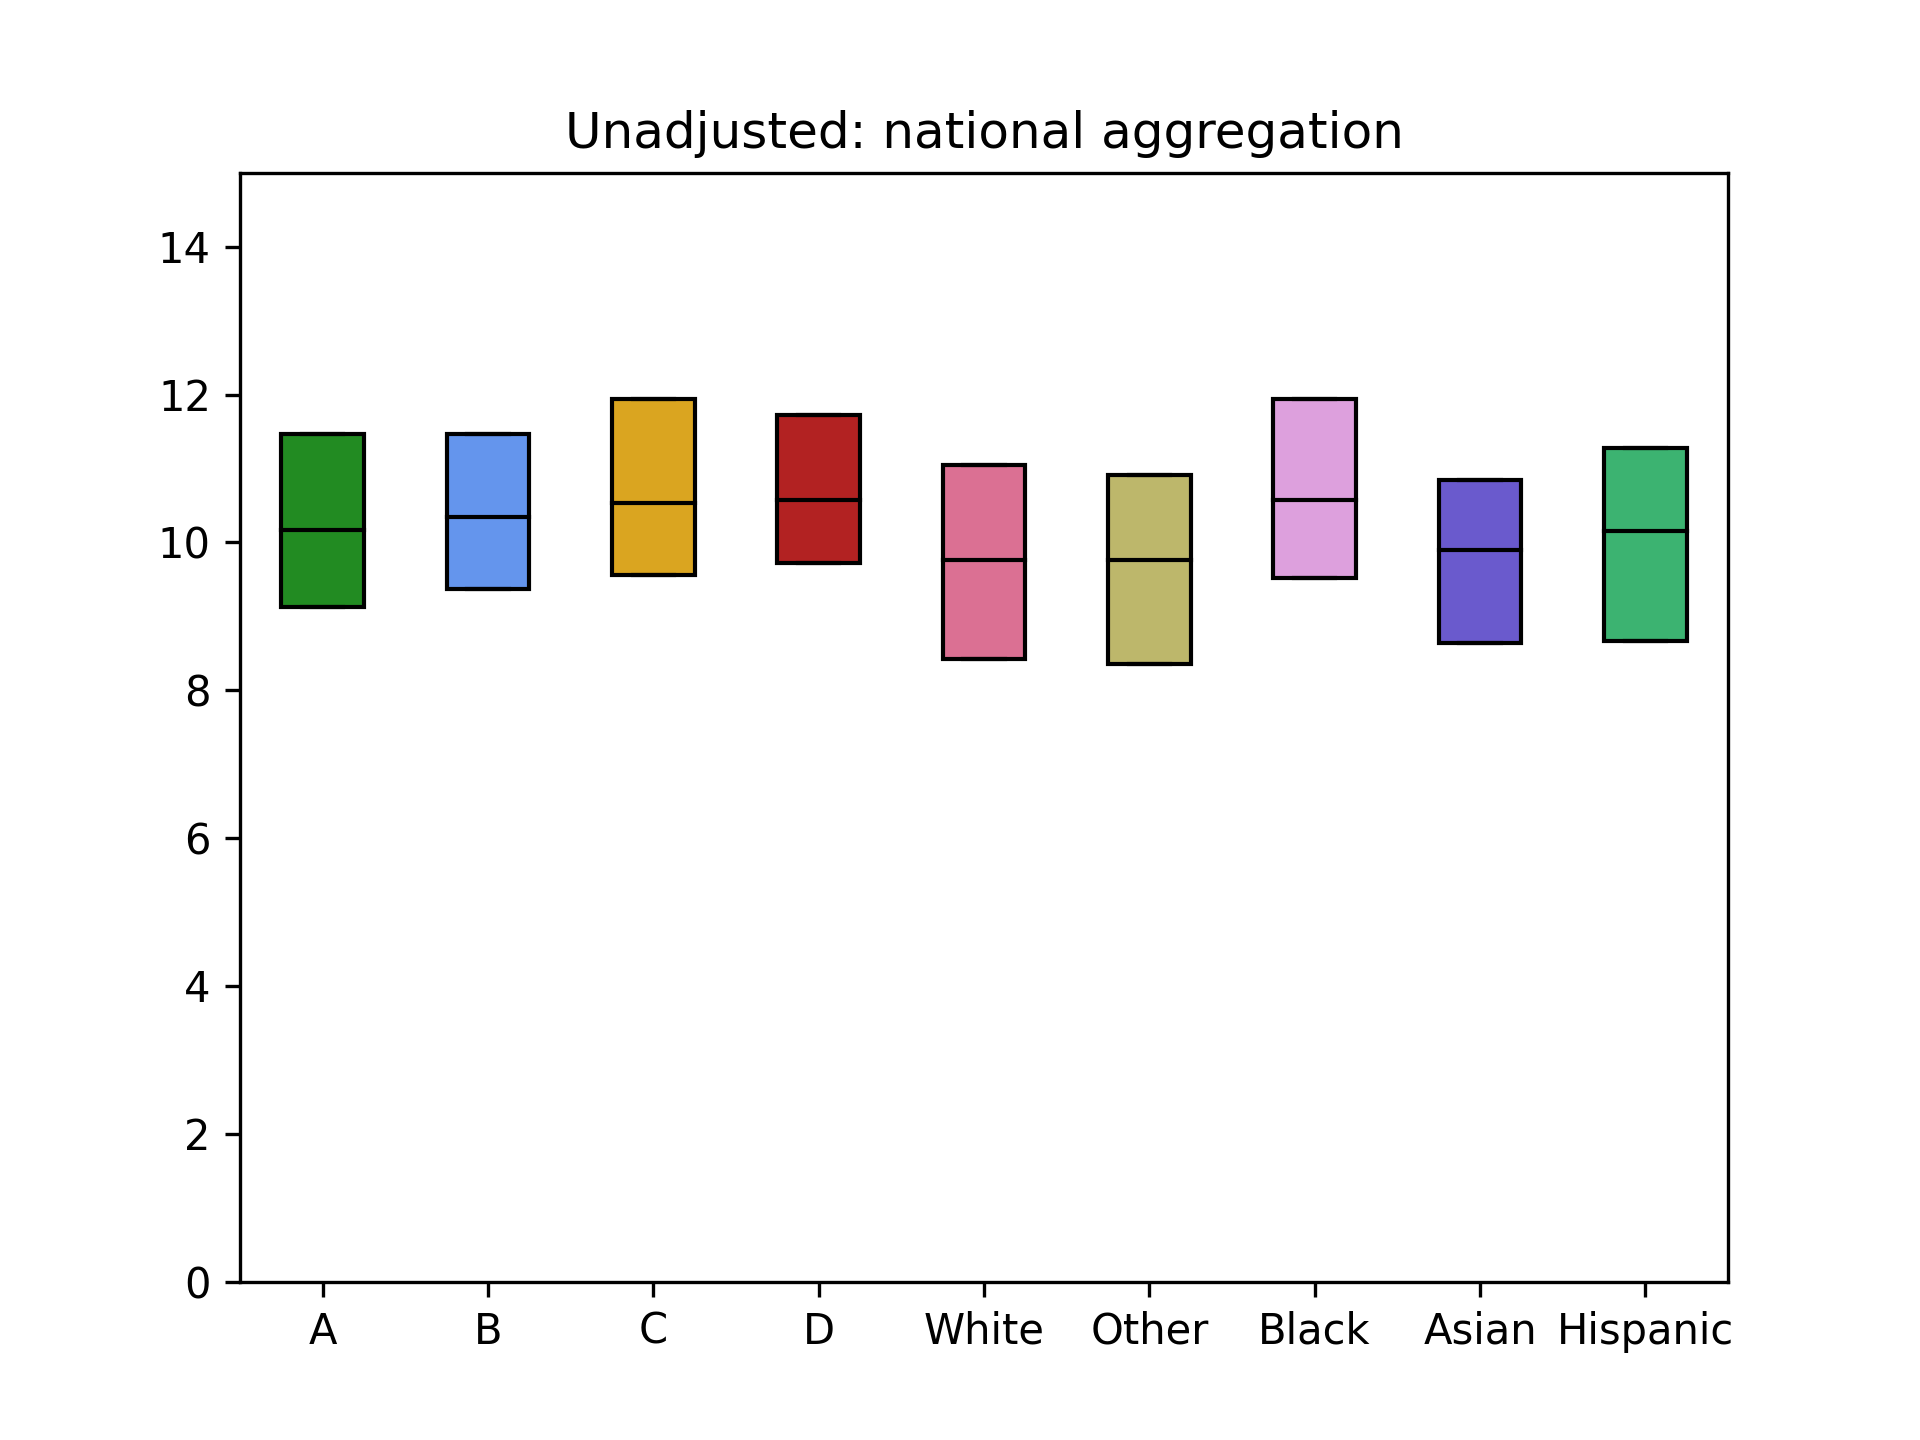
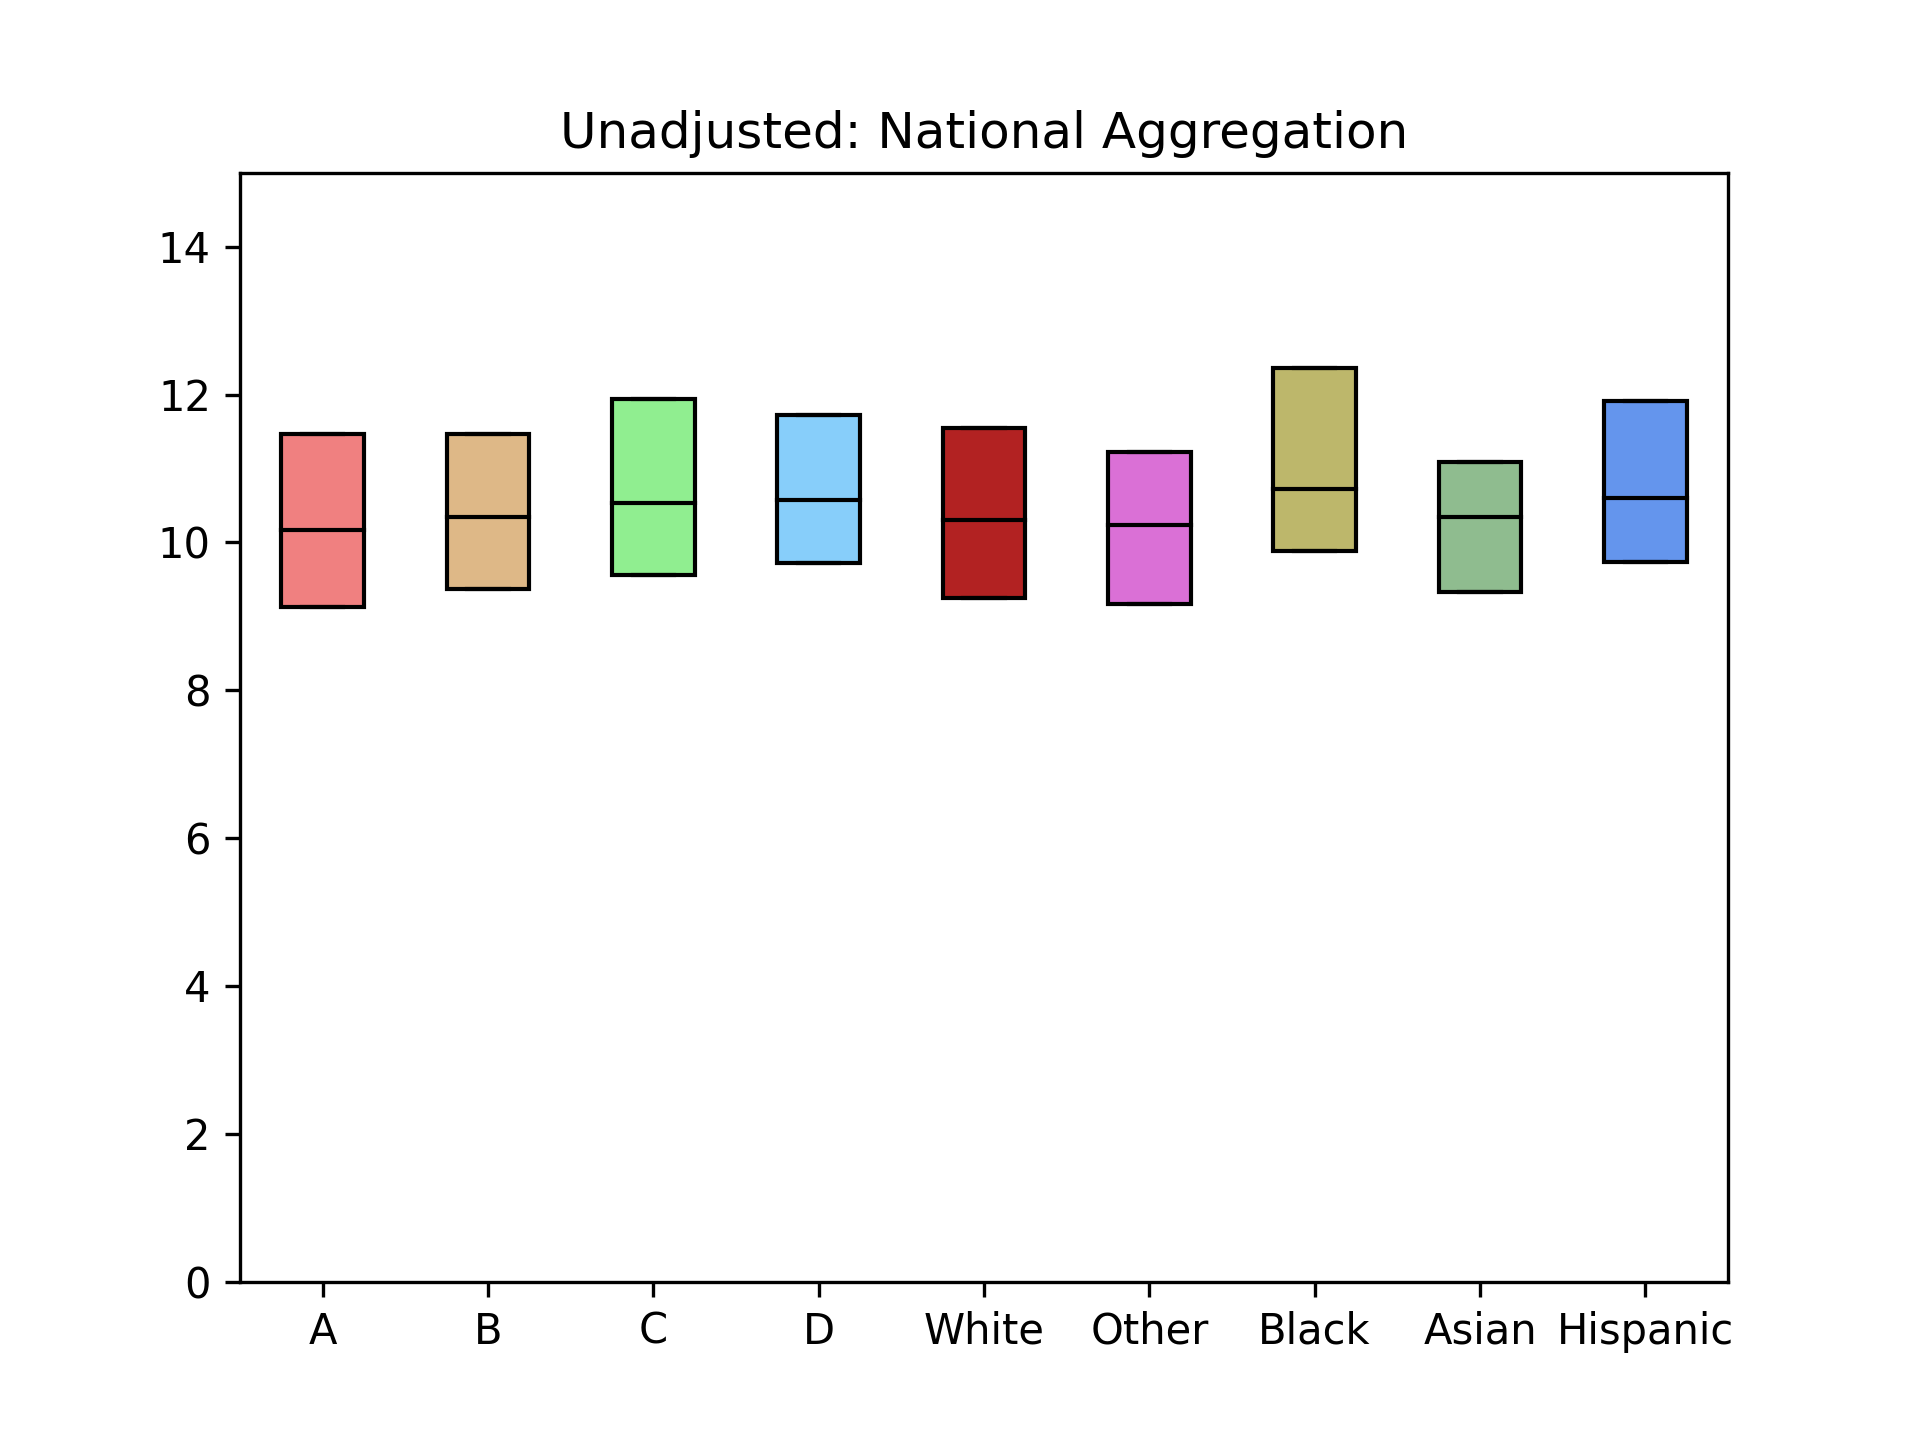
fixed PM25 unadjusted plot

diff --git a/pm25-unadjusted.py b/pm25-unadjusted.py
@@ -27,30 +27,27 @@ for i in df.index:
       pm25_C += (df['Total'][i] * [df['PM25'][i]])
    if df['Grade'][i] == 'D':
       pm25_D += (df['Total'][i] * [df['PM25'][i]])
-   if (df['White'][i] > 0):
+   if df['Grade'][i] != 'N':
       pm25_white += (df['White'][i] * [df['PM25'][i]])
-   if (df['Other'][i] > 0):
       pm25_other += (df['Other'][i] * [df['PM25'][i]])
-   if (df['Black'][i] > 0):
       pm25_black += (df['Black'][i] * [df['PM25'][i]])
-   if (df['Asian'][i] > 0):
       pm25_asian += (df['Asian'][i] * [df['PM25'][i]])
-   if (df['Hispanic'][i] > 0):
       pm25_hispanic += (df['Hispanic'][i] * [df['PM25'][i]])
 
 data = [pm25_A, pm25_B, pm25_C, pm25_D, pm25_white, pm25_other, pm25_black, pm25_asian, pm25_hispanic]
 labels = ['A', 'B', 'C', 'D', 'White', 'Other', 'Black', 'Asian', 'Hispanic']
 
-fig1, ax1 = plt.subplots(nrows = 1, ncols = 1)
-pm25_plot = ax1.boxplot(data, labels = labels, patch_artist = True, showfliers = False, vert = True, whis = 0)
-ax1.set_title('Unadjusted: national aggregation')
+fig, ax = plt.subplots(nrows = 1, ncols = 1)
+plot = ax.boxplot(data, labels = labels, patch_artist = True, showfliers = False, vert = True, whis = 0)
+ax.set_title('Unadjusted: National Aggregation')
 
-ax1.set_ylim(0, 15)
-for median in pm25_plot['medians']:
+ax.set_ylim(0, 15)
+for median in plot['medians']:
    median.set_color('black')
 
-colors = ['forestgreen', 'cornflowerblue', 'goldenrod', 'firebrick', 'palevioletred', 'darkkhaki', 'plum', 'slateblue', 'mediumseagreen']
-for patch, color in zip(pm25_plot['boxes'], colors):
+colors = ['lightcoral', 'burlywood', 'lightgreen', 'lightskyblue',
+          'firebrick', 'orchid', 'darkkhaki', 'darkseagreen', 'cornflowerblue']
+for patch, color in zip(plot['boxes'], colors):
    patch.set_facecolor(color)
 
 plt.savefig('pm25-unadjusted.png', dpi = 300)
